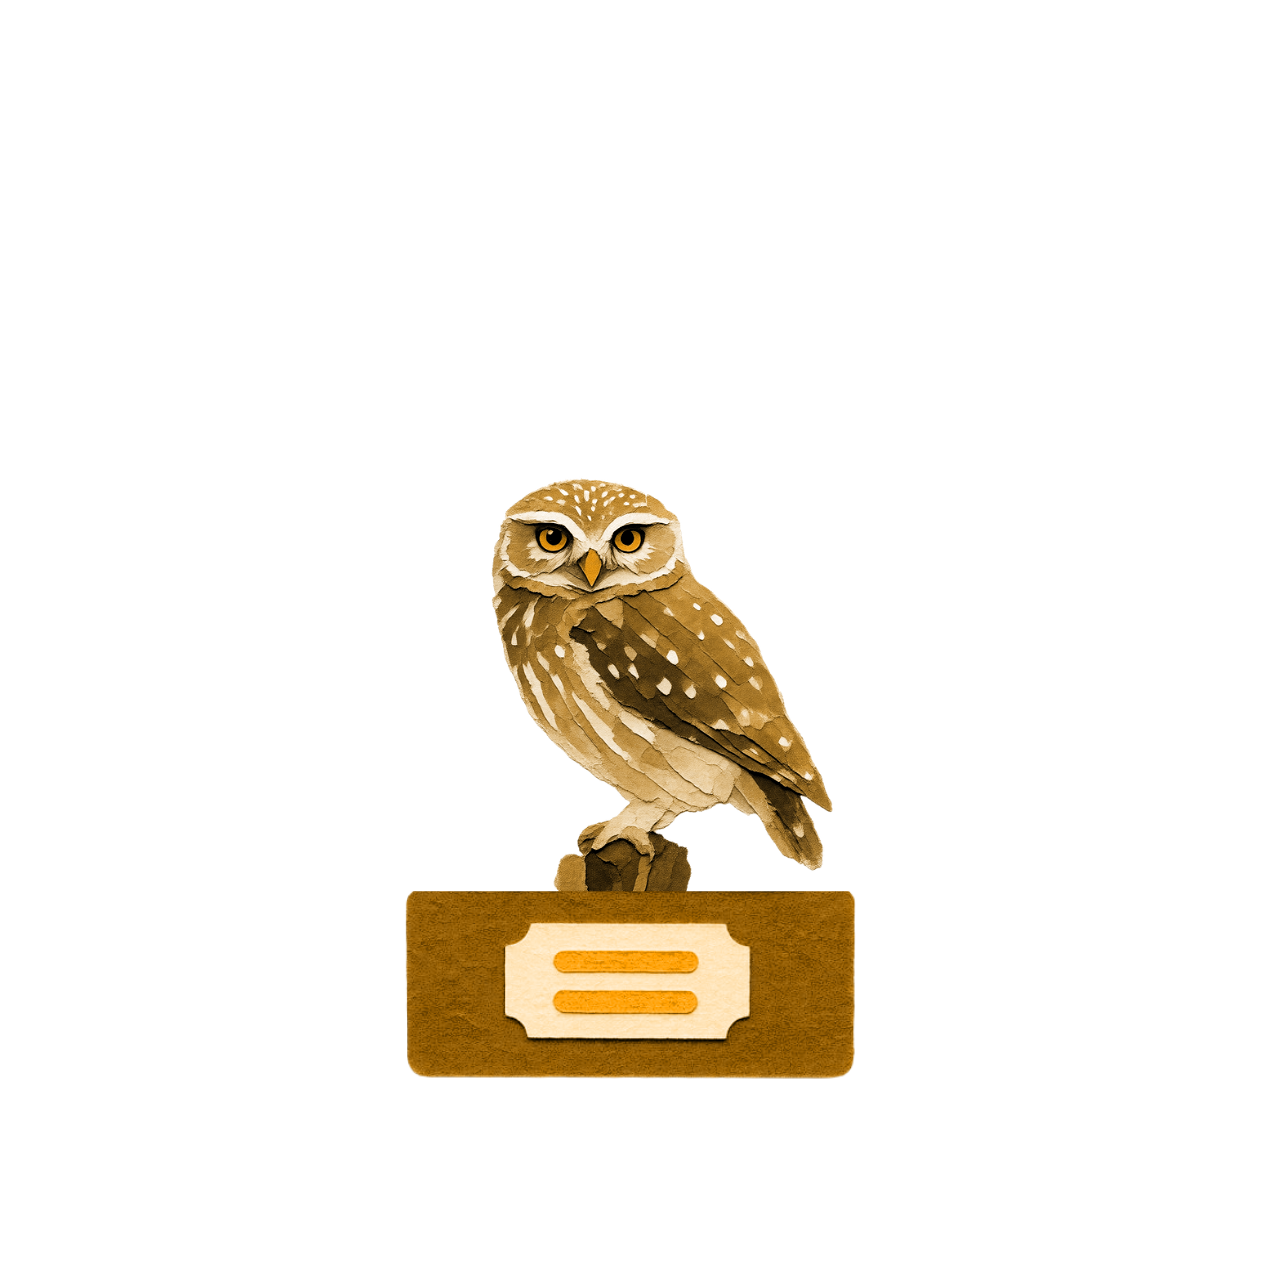
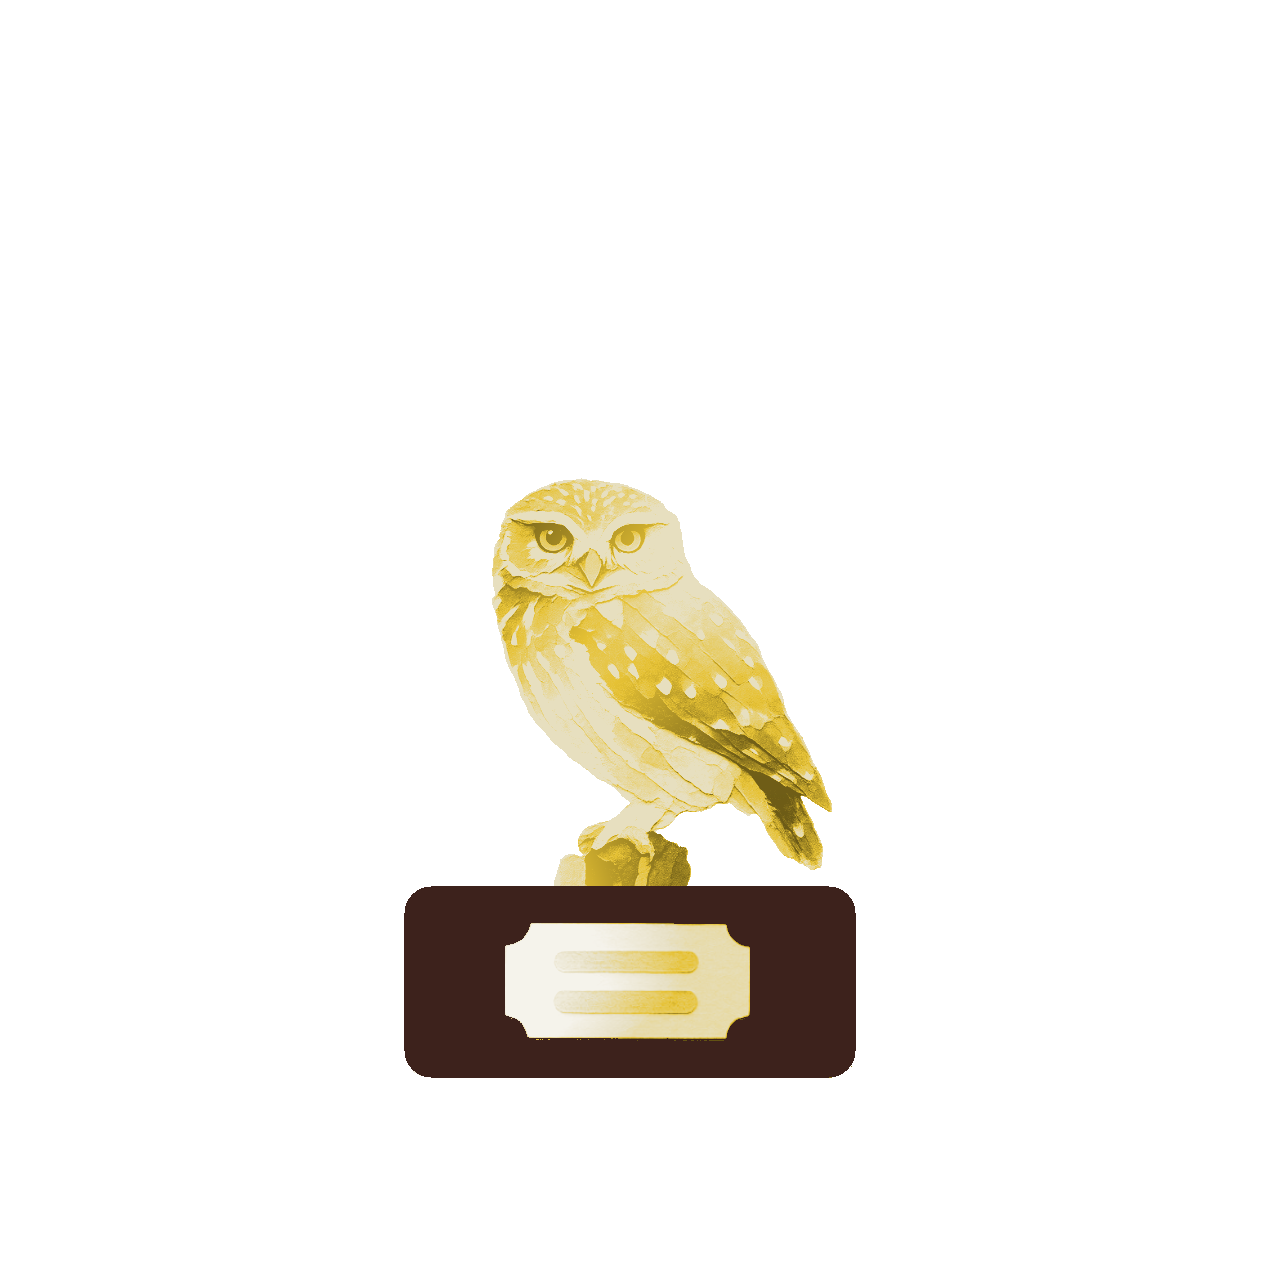
Refonte trophees batch 5 : - Rapace (rapace-diurne) : 5 tiers - Laridae (mouette) : 5 tiers - Nocturnes (chouette) : 5 tiers - Rivages (pluvier) : 5 tiers Compression ~44%. Cache v314.

Changed region(s): [[0.3085, 0.3703, 0.6788, 0.8639]]

diff --git a/service-worker.js b/service-worker.js
@@ -3,7 +3,7 @@
 //   puis rafraichit en background. Prochain reload = nouvelle version.
 // - Requetes cross-origin (Firestore, iNaturalist, xeno-canto, Wikipedia, etc.) : reseau seul.
 // - Bump CACHE_VERSION quand on veut invalider volontairement.
-const CACHE_VERSION = 'v313-2026-09-17-etoiles-filled-only';
+const CACHE_VERSION = 'v314-2026-09-17-batch5-rapace-mouette-chouette-pluvier';
 const CACHE_NAME = 'lmb-' + CACHE_VERSION;
 
 self.addEventListener('install', (e) => {
